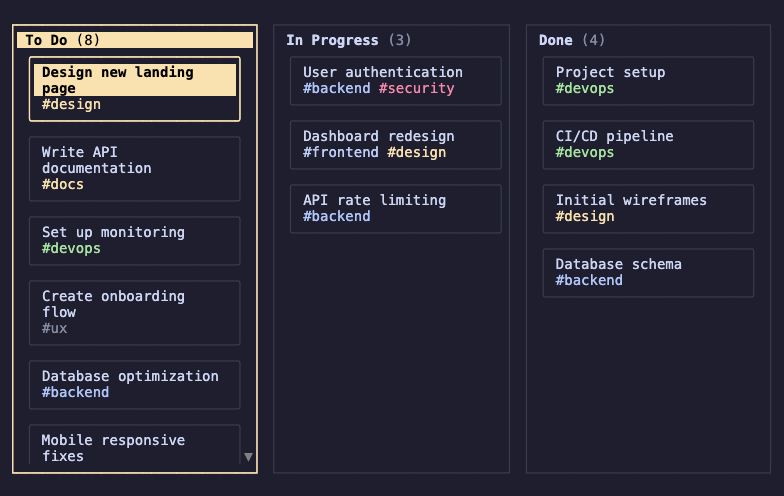
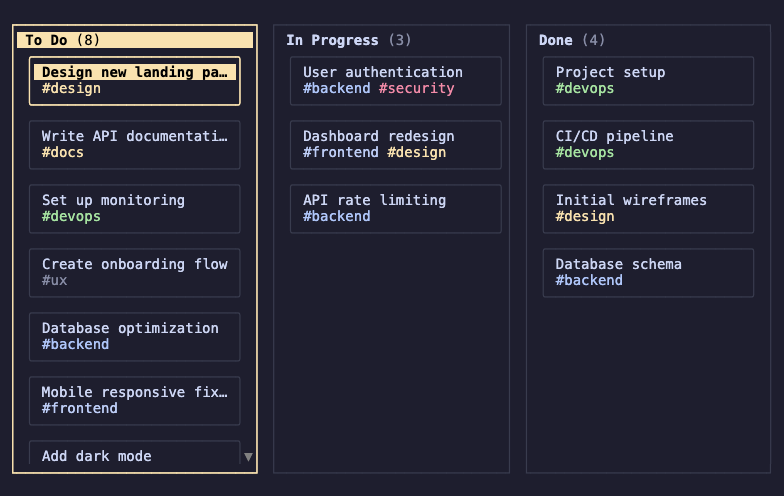
fix(examples): add wrap=truncate to kanban cards and textarea notes
Kanban: add wrap="truncate" on card titles to prevent overflow, remove
unused HelpBar component and its Kbd/Muted imports (ExampleBanner
handles controls). Textarea: replace manual .slice(0,40) truncation
with wrap="truncate" on note titles in sidebar.

Changed region(s): [[0.0306, 0.121, 0.3061, 0.8468], [0.0306, 0.877, 0.2449, 0.9375]]

diff --git a/examples/apps/kanban.tsx b/examples/apps/kanban.tsx
@@ -9,7 +9,7 @@
  */
 
 import React, { useState } from "react"
-import { render, Box, Text, Kbd, Muted, useInput, useApp, createTerm, type Key } from "../../src/index.js"
+import { render, Box, Text, useInput, useApp, createTerm, type Key } from "../../src/index.js"
 import { ExampleBanner, type ExampleMeta } from "../_banner.js"
 
 export const meta: ExampleMeta = {
@@ -105,13 +105,13 @@ function CardComponent({ card, isSelected }: { card: Card; isSelected: boolean }
     <Box flexDirection="column" borderStyle="round" borderColor={isSelected ? "$primary" : "$border"}>
       {isSelected ? (
         <Box backgroundColor="$primary" paddingX={1}>
-          <Text color="$primary-fg" bold>
+          <Text color="$primary-fg" bold wrap="truncate">
             {card.title}
           </Text>
         </Box>
       ) : (
         <Box paddingX={1}>
-          <Text>{card.title}</Text>
+          <Text wrap="truncate">{card.title}</Text>
         </Box>
       )}
       <Box gap={1} paddingX={1}>
@@ -165,15 +165,6 @@ function ColumnComponent({
         )}
       </Box>
     </Box>
-  )
-}
-
-function HelpBar() {
-  return (
-    <Muted>
-      {" "}
-      <Kbd>h/l</Kbd> column <Kbd>j/k</Kbd> card <Kbd>{"</"}</Kbd> move <Kbd>Esc/q</Kbd> quit
-    </Muted>
   )
 }
 

diff --git a/examples/apps/textarea.tsx b/examples/apps/textarea.tsx
@@ -135,9 +135,8 @@ export function NoteEditor() {
             ) : (
               notes.map((note, i) => (
                 <Box key={i} flexDirection="column" marginBottom={1}>
-                  <Text>
-                    <Strong color="$success">#{i + 1}</Strong> {note.split("\n")[0]?.slice(0, 40)}
-                    {(note.split("\n")[0]?.length ?? 0) > 40 ? "..." : ""}
+                  <Text wrap="truncate">
+                    <Strong color="$success">#{i + 1}</Strong> {note.split("\n")[0]}
                   </Text>
                   <Muted>
                     {note.split("\n").length} lines, {note.length} chars
